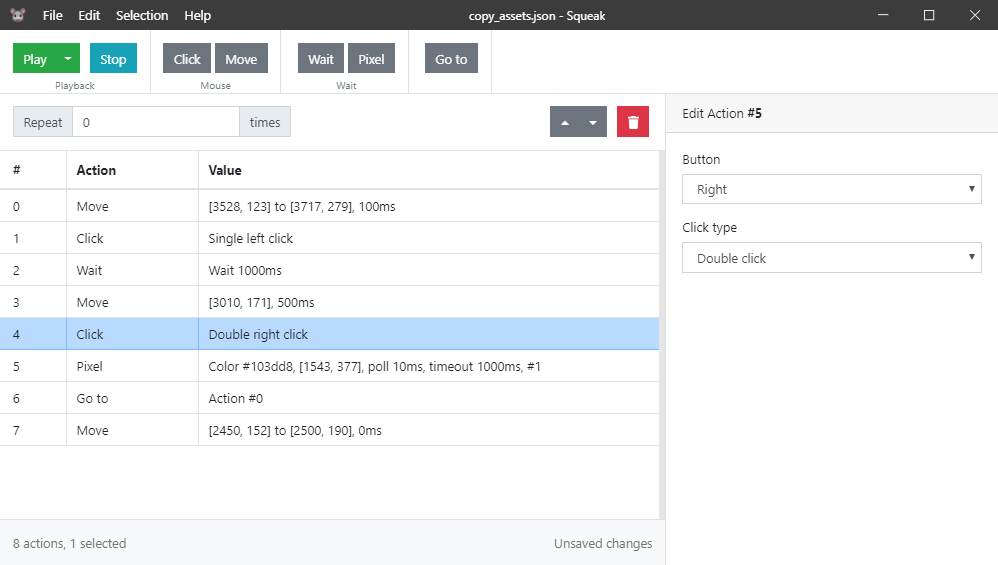
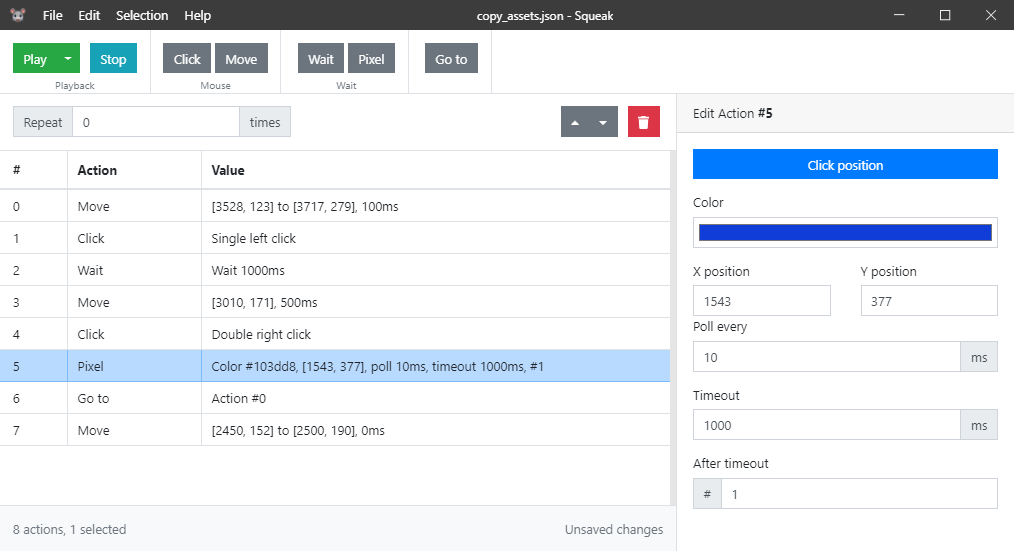
Update screenshot and fix edit action bug

diff --git a/src/renderer/components/EditAction.vue b/src/renderer/components/EditAction.vue
@@ -2,7 +2,7 @@
   <b-card class="edit-action h-100 border-top-0 border-right-0 border-bottom-0">
     <div slot="header">
       Edit Action
-      <strong v-if="selected !== undefined">#{{ selected + 1 }}</strong>
+      <strong v-if="selected !== undefined">#{{ selected }}</strong>
     </div>
     <component :is="action ? `action-${action.action}` : null" :action="action"></component>
     <b-card-text v-if="selected === undefined">Select or create an action.</b-card-text>
